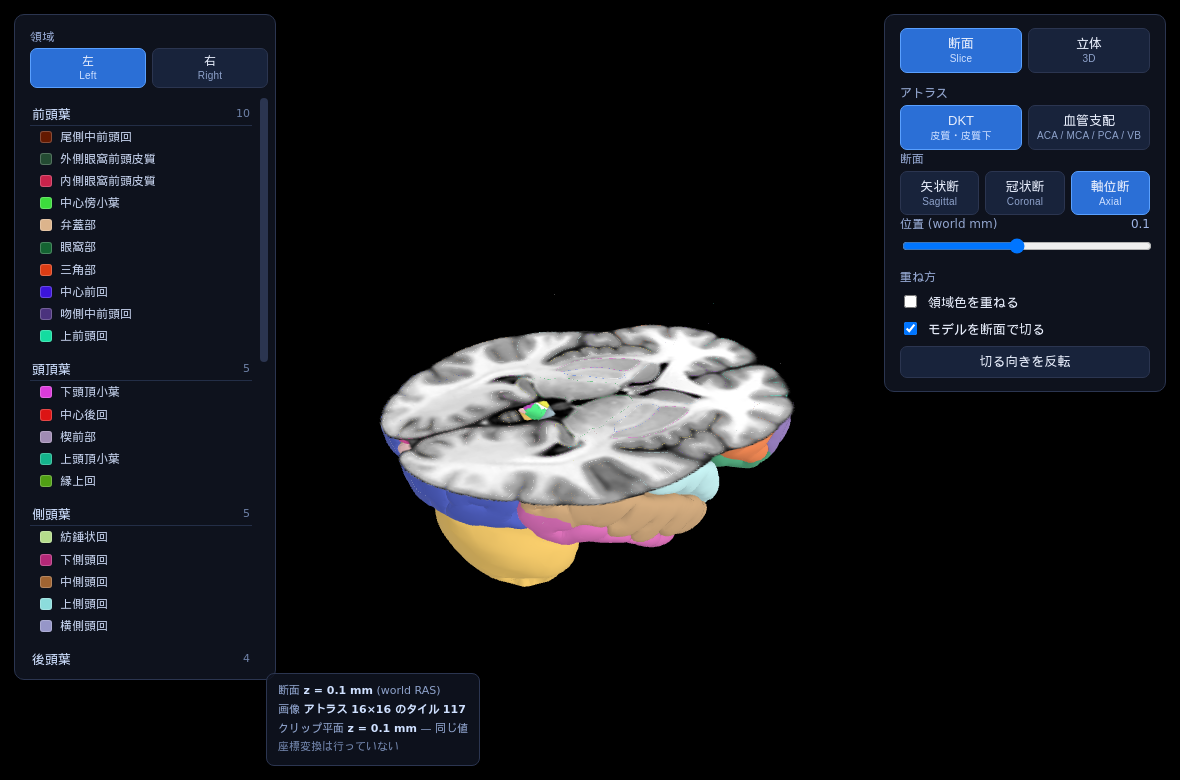
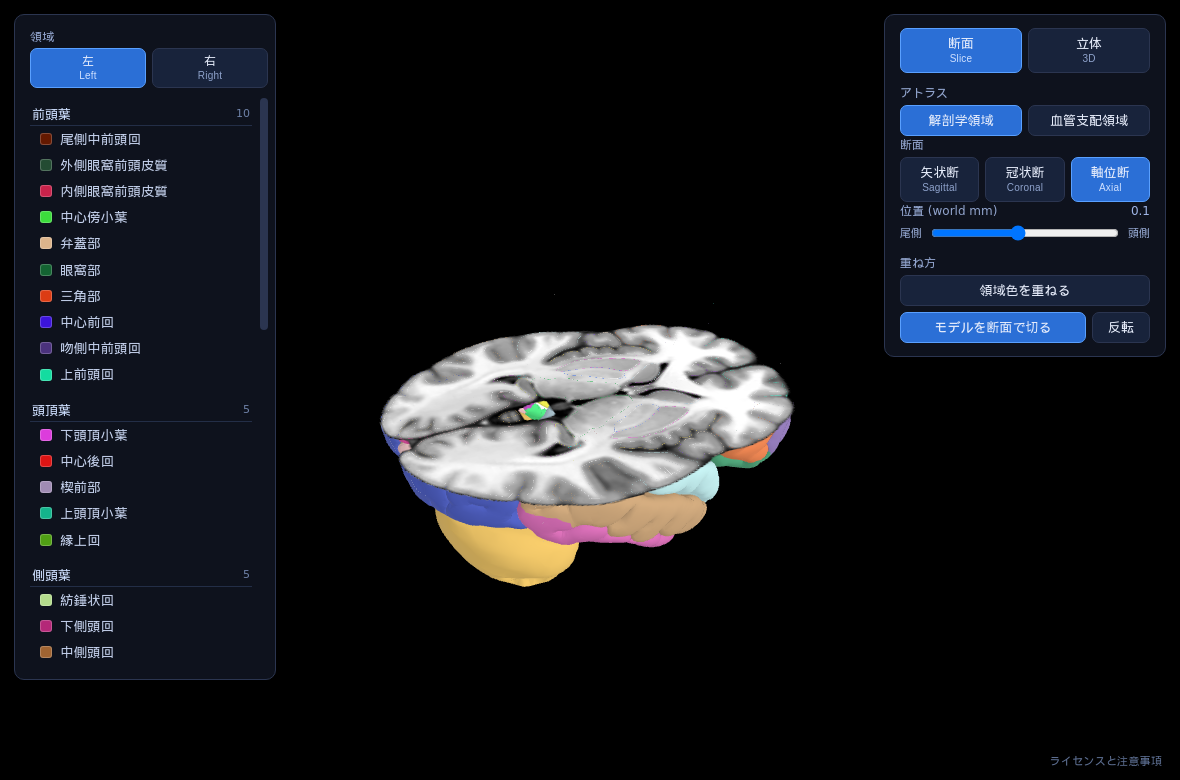
スクリーンショットを撮り直し、README の表記を現物に合わせた
* 3 枚とも今の UI で撮り直した（操作子・アトラスの呼び名・座標表示の廃止）
* 「DKT / 血管支配」を画面と同じ「解剖学領域 / 血管支配領域」に
* 脳底動脈を正中の 1 本として扱うことを、データの素性に書いた
* 標準脳の説明を「公開されている標準脳（MNI152）」に統一した

Claude-Session: https://claude.ai/code/session_01SsLQqLrmruaE4or1rAvezB

diff --git a/viewer.html b/viewer.html
@@ -302,7 +302,7 @@
     <h3>ご利用にあたって</h3>
     <ul>
       <li><b>診断や臨床判断の材料には使用しないでください。</b>教育と参照を目的としています。</li>
-      <li>表示しているのは標準脳 1 例です。個人の MRI ではなく、患者情報は含まれません。</li>
+      <li>表示している MRI は、公開されている標準脳（MNI152）です。</li>
       <li>領域の区分は自動処理（FastSurfer）の結果で、個々の症例に当てはまるものではありません。</li>
       <li>左右の向きは neurological（画像の左が患者の左）です。</li>
     </ul>

diff --git a/docs/spec.md b/docs/spec.md
@@ -223,7 +223,7 @@ if (state.clip && clip.normal.dot(h.point) + clip.constant <= 0) continue;
 
 右下に「ライセンスと注意事項」を置き、押すとモーダルで出す。血管支配アトラスが
 CC BY-SA なので、帰属表示は画面の中にも要る。中身は、使い方の注意（診断に使わない・
-個人の MRI ではない・自動処理の結果である・左右は neurological）と、データごとの出典と
+公開されている標準脳を使っている・自動処理の結果である・左右は neurological）と、データごとの出典と
 ライセンス、引用文献。出典先へのリンクは `target="_blank"` で開く（読み込みは同梱の
 ものだけで、外部から取ってくるものは無い）。
 
